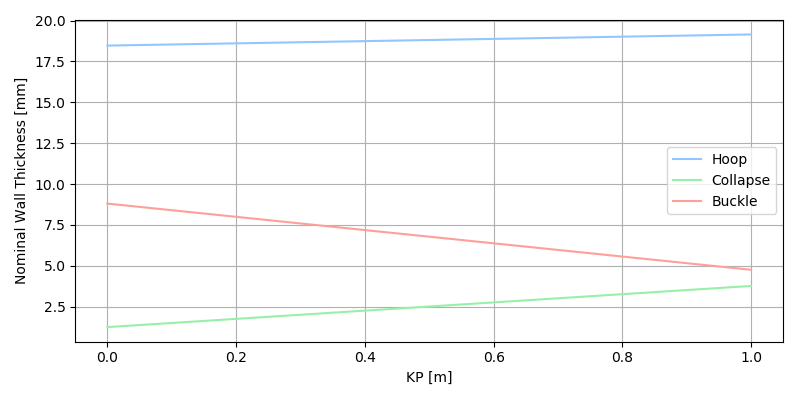
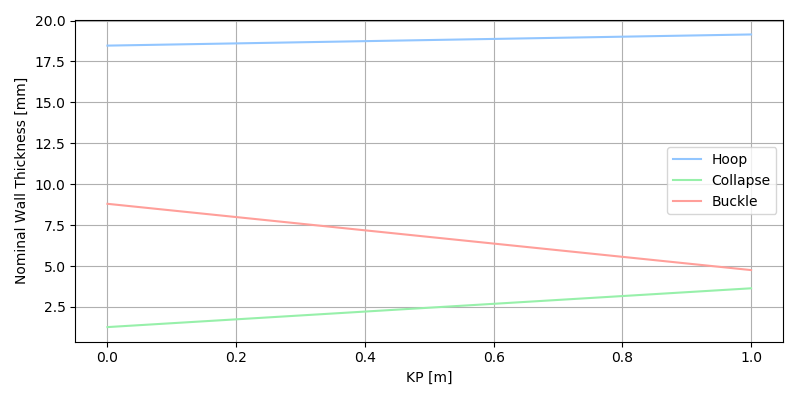
refined calculations and added tests

diff --git a/wall.py b/wall.py
@@ -11,9 +11,37 @@ DESIGN_FACTORS = {"riser": 0.6, "seabed": 0.72}
 
 
 def pressure_head(h, rho, g=9.81):
-    """Calculate the pressure head. 
+    """Calculate the fluid pressure head.
+
+    Parameters
+    ----------
+    h : array : Water depth [m]
+    rho : array : Fluid density [kg/m^3]
+    g : float : Acceleration of gravitiy [m/s/s]
+
+    Returns
+    -------
+    P_h : array : Pressure head [Pa]
     """
     return rho * g * h
+
+
+def internal_pressure(P_d, h, rho_c, h_ref=0):
+    """Calculate the internal pressure of the pipeline at the seabed.
+
+    Parameters
+    ----------
+    P_d : array : Design pressure [Pa]
+    h : array : Water depth [m]
+    rho_c : array : Contents density [kg/m^3]
+    h_ref : array : Reference height [m]
+
+    Returns
+    -------
+    P_i : array : Internal pressure [Pa]
+    """
+    P_h = pressure_head(h + h_ref, rho_c)
+    return P_d + P_h
 
 
 def min_hoop_thickness(D_o, delta_P, sigma_y, location):
@@ -63,27 +91,25 @@ def nom_hoop_thickness(t_min, t_corr, f_tol):
     ----------
     t_min : array : Minimum wall thickness [m]
     t_corr : array : Corrosion allowance [m]
-    f_tol : array : Fabrication tolerance [m]
+    f_tol : array : Fabrication tolerance [-]
 
     Returns
     -------
     t_nom : array : Nominal wall thickness [m]
     """
 
-    try:
-        return (t_min + t_corr) / (1 - f_tol)
-    except ZeroDivisionError:
-        raise ZeroDivisionError("Divide by zero. Check fabrication tolerance.")
+    # return zero if denominator is zero (i.e. 100% f_tol)
+    return np.where(1 - f_tol, (t_min + t_corr) / (1 - f_tol), 0)
 
 
-def collapse_thickness(P_e, sig_y_d, E, v, D_o, f_0, f_s=2):
+def collapse_thickness(P_e, sigma_y, E, v, D_o, f_0, f_s=2):
     """Calculate the nominal wall thickness for local buckling due to external
     pressure (PD8010-2 Clause G.1.2).
 
     Parameters
     ----------
     P_e : array : External pressure [Pa]
-    sig_y_d : array : De-rated yield strength [Pa]
+    sigma_y : array : Pipe yield strength [Pa]
     E : array : Young's modulus [Pa]
     v : array : Poisson's ratio [-]
     D_o : array : Outside diameter [m]
@@ -107,7 +133,7 @@ def collapse_thickness(P_e, sig_y_d, E, v, D_o, f_0, f_s=2):
     def P_y(t):
         """Calculate the yield pressure (PD8010-2 Equation G.3).
         """
-        return 2 * sig_y_d * (t / D_o)
+        return 2 * sigma_y * (t / D_o)
 
     def char_resist(t):
         """Calculate the characteristic resistance for external pressure
@@ -140,46 +166,53 @@ def buckle_thickness(D_o, P_p, sigma_y):
     return D_o * (P_p / (10.7 * sigma_y)) ** (4 / 9)
 
 
-def internal_pressure(P_d, h, rho_c, h_ref=0):
-    """Calculate the internal pressure of the pipeline at the seabed.
+def wall_thicknesses(
+    P_d, h_ref, rho_c, x, location, D_o, h, sigma_y, t_corr, f_tol, E, v, f_0
+):
+    """Calculate nominal wall thicknesses in accordance with PD 8010-2.
     """
-    P_h = pressure_head(h + h_ref, rho_c)
-    return P_d + P_h
+
+    P_i = internal_pressure(P_d, h, rho_c, h_ref)
+    P_e = pressure_head(h, rho_sw)
+    delta_P = abs(P_i - P_e)
+    hoop_min, _ = min_hoop_thickness(D_o, delta_P, sigma_y, location)
+    hoop_nom = nom_hoop_thickness(hoop_min, t_corr, f_tol)
+    collapse_nom = v_collapse_thickness(P_e, sigma_y, E, v, D_o, f_0)
+    buckle_nom = buckle_thickness(D_o, P_e, sigma_y)
+    required = np.maximum.reduce([hoop_nom, collapse_nom, buckle_nom])
+
+    return np.array([x, hoop_nom, collapse_nom, buckle_nom, required])
 
 
-if __name__ == "__main__":
-
-    location = np.array(["seabed", "seabed"])
-    x = np.array([0, 1])
-    D_o = np.array([0.2731, 0.2731])
-    h = np.array([200, 50])
+if __name__ == "__main__":  # pragma: no cover
 
     P_d = 380e5
     h_ref = 24
-
     rho_sw = 1025
     rho_c = 10
 
-    P_i = internal_pressure(P_d, h, rho_c, h_ref)
-
+    x = np.array([0, 1])
+    location = np.array(["seabed", "seabed"])
+    D_o = np.array([0.2731, 0.2731])
+    h = np.array([200, 50])
     sigma_y = np.array([427e6, 427e6])
     t_corr = np.array([0.001, 0.001])
     f_tol = np.array([0.125, 0.125])
     E = np.array([207e9, 207e9])
     v = np.array([0.3, 0.3])
-    f_0 = np.array([0.025, 0.025])
+    f_0 = np.array([0.01, 0.01])
 
-    P_e = pressure_head(h, rho_sw)
-    delta_P = abs(P_i - P_e)
+    wts = wall_thicknesses(
+        P_d, h_ref, rho_c, x, location, D_o, h, sigma_y, t_corr, f_tol, E, v, f_0
+    )
 
-    hoop_min, ratio = min_hoop_thickness(D_o, delta_P, sigma_y, location)
-    hoop_nom = nom_hoop_thickness(hoop_min, t_corr, f_tol)
-    collapse_nom = v_collapse_thickness(P_e, sigma_y, E, v, D_o, f_0)
-    buckle_nom = buckle_thickness(D_o, P_e, sigma_y)
+    from tabulate import tabulate
 
-    required = np.maximum.reduce([hoop_nom, collapse_nom, buckle_nom])
+    headers = ["KP [m]", "Hoop [m]", "Collapse [m]", "Buckle [m]", "Required [m]"]
+    print(tabulate(np.transpose(wts), headers, tablefmt="psql"))
 
     from plot import plot_wall_thicknesses
 
-    plot = plot_wall_thicknesses(x, hoop_nom, collapse_nom, buckle_nom)
+    plot = plot_wall_thicknesses(wts)
     plot.savefig("wall_plot.png")
+

diff --git a/test_wall.py b/test_wall.py
@@ -11,9 +11,23 @@ test_data = {
     "rho_c": np.array([982.7, 982.7]),
     "sigma_y": np.array([427e6, 427e6]),
     "location": np.array(["seabed", "seabed"]),
-    "P_i": np.array([391.645e5, 390.701e5]),
+    "t_corr": np.array([0.001, 0.001]),
+    "f_tol": np.array([0.025, 0.025]),
+    "E": np.array([207e9, 207e9]),
+    "v": np.array([0.3, 0.3]),
+    "f_0": np.array([0.001, 0.001]),
+    "P_h": np.array([933_179.8, 838_705.0]),
+    "P_i": np.array([39_164_500, 39_070_100]),
     "hoop_min": np.array([0.016029, 0.016031]),
+    "hoop_nom": np.array([0.017466, 0.017467]),
+    "collapse_nom": np.array([0.004447, 0.004291]),
+    "buckle_nom": np.array([0.006376, 0.006080]),
 }
+
+
+def test_pressure_head():
+    P_h = w.pressure_head(test_data["h"], test_data["rho_c"])
+    assert pytest.approx(P_h, abs=0.1) == test_data["P_h"]
 
 
 def test_internal_pressure():
@@ -24,17 +38,45 @@ def test_internal_pressure():
 
 
 @pytest.fixture
-def delta_P():
+def P_e():
+    return w.pressure_head(test_data["h"], 1025)
+
+
+@pytest.fixture
+def delta_P(P_e):
     P_i = w.internal_pressure(
         test_data["P_d"], test_data["h"], test_data["rho_c"], test_data["h_ref"]
     )
-    P_e = w.pressure_head(test_data["h"], 1025)
     return abs(P_i - P_e)
 
 
 def test_min_hoop_thickness(delta_P):
-    hoop_min, ratio = w.min_hoop_thickness(
+    t_min, _ = w.min_hoop_thickness(
         test_data["D_o"], delta_P, test_data["sigma_y"], test_data["location"]
     )
-    assert pytest.approx(hoop_min, abs=1e-6) == test_data["hoop_min"]
+    assert pytest.approx(t_min, abs=1e-6) == test_data["hoop_min"]
 
+
+def test_nom_hoop_thickness(delta_P):
+    t_min, _ = w.min_hoop_thickness(
+        test_data["D_o"], delta_P, test_data["sigma_y"], test_data["location"]
+    )
+    t_nom = w.nom_hoop_thickness(t_min, test_data["t_corr"], test_data["f_tol"])
+    assert pytest.approx(t_nom, abs=1e-6) == test_data["hoop_nom"]
+
+
+def test_collapse_thickness(P_e):
+    t_nom = w.v_collapse_thickness(
+        P_e,
+        test_data["sigma_y"],
+        test_data["E"],
+        test_data["v"],
+        test_data["D_o"],
+        test_data["f_0"],
+    )
+    assert pytest.approx(t_nom, abs=1e-6) == test_data["collapse_nom"]
+
+
+def test_buckle_thickness(P_e):
+    t_nom = w.buckle_thickness(test_data["D_o"], P_e, test_data["sigma_y"])
+    assert pytest.approx(t_nom, abs=1e-6) == test_data["buckle_nom"]

diff --git a/plot.py b/plot.py
@@ -3,15 +3,14 @@ import matplotlib.pyplot as plt
 plt.style.use("seaborn-pastel")
 
 
-def plot_wall_thicknesses(x, hoop, collapse, buckle):
-    fig, ax1 = plt.subplots(figsize=(8, 4))
-    # ax2 = ax1.twinx()
-    ax1.plot(x, 1000 * hoop, label="Hoop")
-    ax1.plot(x, 1000 * collapse, label="Collapse")
-    ax1.plot(x, 1000 * buckle, label="Buckle")
-    ax1.set_xlabel("KP [m]")
-    ax1.set_ylabel("Nominal Wall Thickness [mm]")
-    ax1.legend()
-    ax1.grid()
+def plot_wall_thicknesses(wts):
+    fig, ax = plt.subplots(figsize=(8, 4))
+    ax.plot(wts[0], 1000 * wts[1], label="Hoop")
+    ax.plot(wts[0], 1000 * wts[2], label="Collapse")
+    ax.plot(wts[0], 1000 * wts[3], label="Buckle")
+    ax.set_xlabel("KP [m]")
+    ax.set_ylabel("Nominal Wall Thickness [mm]")
+    ax.legend()
+    ax.grid()
     plt.tight_layout()
     return plt
